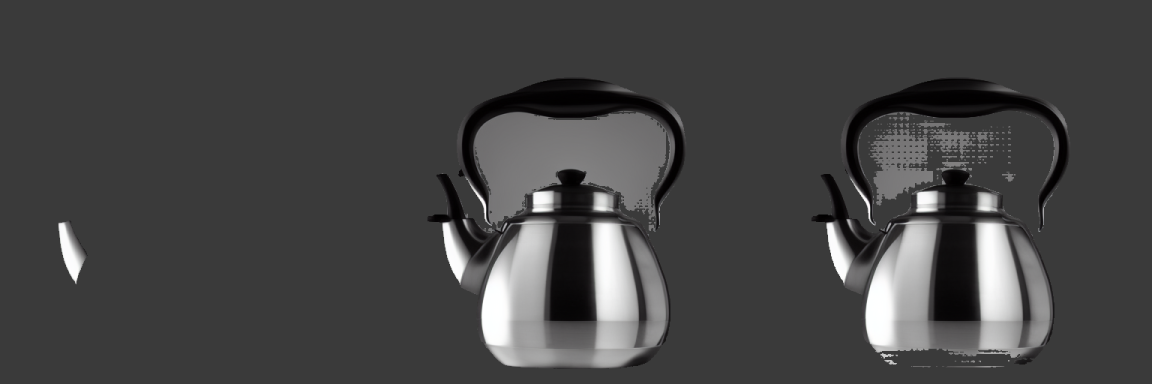
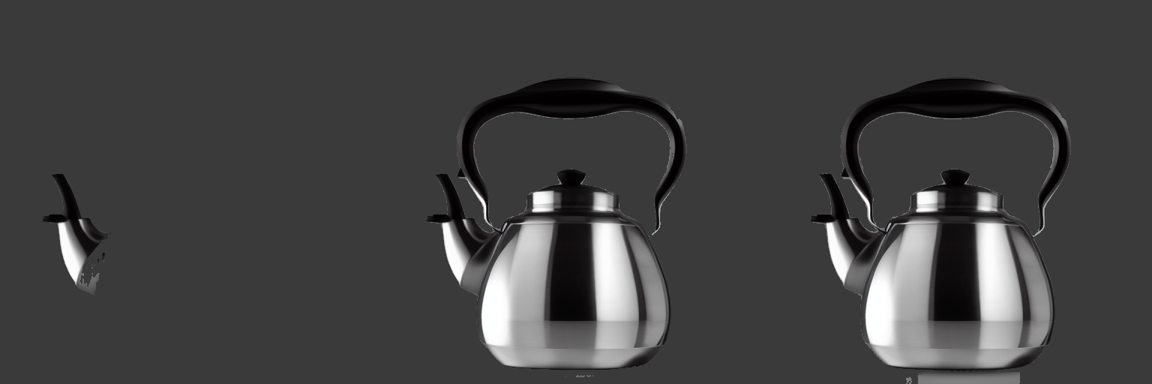
docs(pipeline): rerun the walkthrough with default models
Segment now defaults to sam2-coreml, so the cutout, masked cloud, mesh and export figures were regenerated.

diff --git a/docs/pipeline.md b/docs/pipeline.md
@@ -12,7 +12,7 @@ splat diffuse "a single stainless steel kettle with a black handle, centered, pl
 
 ![The diffused kettle](images/01-diffuse.png)
 
-The default model is `sd15-coreml`, a 6-bit palettized SD 1.5 that renders 512 px in about 35 s here, model load included, and supports image-to-image (`sdxl-turbo-mlx` is the alternative, with a non-commercial license that `splat` prints on every run). A plain backdrop and a single centred subject matter: every later stage does better on an image like this, and the rest of this page keeps using this one file.
+The default model is `sd15-coreml`, a 6-bit palettized SD 1.5 that renders 512 px in about 30 s here, model load included, and supports image-to-image (`sdxl-turbo-mlx` is the alternative, with a non-commercial license that `splat` prints on every run). A plain backdrop and a single centred subject matter: every later stage does better on an image like this, and the rest of this page keeps using this one file.
 
 ## 2. Caption and embed
 
@@ -26,13 +26,13 @@ The caption is `A shiny silver tea kettle with a black handle and lid.` (`fastvl
 ## 3. Segment
 
 ```sh
-splat segment kettle.png --model sam-mlx --max-stickers 8 -o stickers/
-splat segment kettle.png --model sam2-coreml --max-stickers 8 -o stickers/
+splat segment kettle.png --max-stickers 8 -o stickers/
+splat segment kettle.png --model sam-mlx --max-stickers 8 -o stickers-mlx/
 ```
 
 ![Automatic stickers from sam-mlx (top) and sam2-coreml (bottom)](images/02-segment-auto.png)
 
-Automatic segmentation fans out into one RGBA `sticker` per mask, largest first. `sam2-coreml` (bottom) starts with the frame sized mask, shown as the backdrop with the kettle cut out, then finds the kettle, the handle, the body, the spout and the lid. `sam-mlx` (top) finds the handle and the backdrop inside it, then slices of the body's highlights and shadows. `--drop-background` removes the masks that cover most of the frame or span part of its edge.
+Automatic segmentation fans out into one RGBA `sticker` per mask, largest first. `sam2-coreml` is the default: it is about twice as fast as `sam-mlx` and a fifth of the size. In the picture it (bottom) starts with the frame sized mask, shown as the backdrop with the kettle cut out, then finds the kettle, the handle, the body, the spout and the lid. `sam-mlx` (top) finds the handle and the backdrop inside it, then slices of the body's highlights and shadows. `--drop-background` removes the masks that cover most of the frame or span part of its edge.
 
 To say which object you mean, prompt the model instead:
 
@@ -44,7 +44,7 @@ splat segment kettle.png --foreground -o kettle-cutout.png
 
 ![A point on the spout, a box around the kettle, and --foreground](images/03-segment-prompts.png)
 
-`--point x,y` (and `--not-point x,y` for background, both repeatable) and `--box x0,y0,x1,y1` take pixel coordinates in the source image and return one sticker. `--foreground` needs no prompt: it finds the box around the masks that are not background and box-prompts the model with it, which gives one cutout of the kettle, though the cloudy backdrop inside the handle is only partly removed. For the box prompt, `sam-mlx` returns `(58, 102, 345, 390)` and `sam2-coreml` `(57, 103, 347, 400)` as `x, y, width, height`, within ten pixels of each other. `sam2-coreml` takes a box or up to two points, because its converted prompt encoder takes exactly two.
+`--point x,y` (and `--not-point x,y` for background, both repeatable) and `--box x0,y0,x1,y1` take pixel coordinates in the source image and return one sticker. `--foreground` needs no prompt: it finds the box around the masks that are not background and box-prompts the model with it, which gives one cutout of the kettle (347 by 409 px). For the box prompt, `sam-mlx` returns `(58, 102, 345, 390)` and `sam2-coreml` `(57, 103, 347, 400)` as `x, y, width, height`, within ten pixels of each other. `sam2-coreml` takes a box or up to two points, because its converted prompt encoder takes exactly two; use `--model sam-mlx` for more points.
 
 A sticker is a tight crop. Its `bbox` in the manifest places it back in the source image, which is how a sticker works as a mask for the next stages.
 
@@ -79,7 +79,7 @@ splat upscale kettle.png -o kettle-x4.png
 splat gaussian kettle.png --score -o kettle.ply
 ```
 
-`sharp` reconstructs a Gaussian splat from the single image: 1,179,648 Gaussians, an 80 MB `.ply` in the OpenGL convention (+Y up), SH degree 0, in metres. It takes about 75 s here, model load included. `--score` renders source view 0 with Blender and records the comparison against the photo in the cloud's `quality`: PSNR 38.09 and SSIM 0.9719, plus floater statistics. `splat manifest get <id>` prints them.
+`sharp` reconstructs a Gaussian splat from the single image: 1,179,648 Gaussians, an 80 MB `.ply` in the OpenGL convention (+Y up), SH degree 0, in metres. It takes about 50 s here, model load included. `--score` renders source view 0 with Blender and records the comparison against the photo in the cloud's `quality`: PSNR 38.09 and SSIM 0.9719, plus floater statistics. `splat manifest get <id>` prints them.
 
 A single photo has a backdrop, and SHARP reconstructs that too, as a wall behind the subject. Hand `gaussian` the cutout from step 3 and it keeps only the Gaussians that project inside it:
 
@@ -87,7 +87,7 @@ A single photo has a backdrop, and SHARP reconstructs that too, as a wall behind
 splat gaussian kettle.png --mask kettle-cutout.png -o kettle-masked.ply
 ```
 
-That is 304,158 Gaussians, a 21 MB file. Gaussians that project inside the mask but sit more than half a subject size behind its nearest surface are dropped too, since they belong to the wall in line with the subject. The masked cloud is a cached child of the full one, so changing the mask does not repeat the reconstruction.
+That is 335,586 Gaussians, a 23 MB file. Gaussians that project inside the mask but sit more than half a subject size behind its nearest surface are dropped too, since they belong to the wall in line with the subject. The masked cloud is a cached child of the full one, so changing the mask does not repeat the reconstruction.
 
 ## 7. Render
 
@@ -111,7 +111,7 @@ splat mesh kettle-masked.ply -o kettle.glb
 
 ![The heightfield from depth-pro-2 (left) and the isosurface of the masked cloud (right)](images/07-mesh.png)
 
-`mesh` has two paths. A metric depth map becomes a textured heightfield, a relief of everything in the photo (262,144 vertices, 512,782 faces, 11.6 MB). A Gaussian cloud becomes an isosurface of its density field with per-vertex colours (65,847 vertices, 131,316 faces, 2.6 MB), which is the kettle alone because the backdrop was masked out. Both are `shape_3d` manifests with typed counts, written as `.glb`, `.obj`, `.ply` or `.gltf` by the extension.
+`mesh` has two paths. A metric depth map becomes a textured heightfield, a relief of everything in the photo (262,144 vertices, 512,782 faces, 11.6 MB). A Gaussian cloud becomes an isosurface of its density field with per-vertex colours (68,904 vertices, 137,612 faces, 2.8 MB), which is the kettle alone because the backdrop was masked out. Both are `shape_3d` manifests with typed counts, written as `.glb`, `.obj`, `.ply` or `.gltf` by the extension.
 
 ## 9. Export
 
@@ -120,18 +120,18 @@ splat export kettle-masked.ply -o kettle.spz
 splat export kettle-masked.ply -o kettle.web.splat --profile web-delivery
 ```
 
-`export` writes any manifest in the format of the extension, with a sidecar. For the masked cloud: `.ply` 20.7 MB, `.spz` 3.0 MB, `.web.splat` 9.7 MB (304,030 points after compression). `splat validate kettle-masked.ply --strict` checks a cloud's invariants and `splat info` prints its count, SH degree, bounds and cameras.
+`export` writes any manifest in the format of the extension, with a sidecar. For the masked cloud: `.ply` 22.8 MB, `.spz` 3.3 MB, `.web.splat` 10.7 MB (335,346 points after compression). `splat validate kettle-masked.ply --strict` checks a cloud's invariants and `splat info` prints its count, SH degree, bounds and cameras.
 
 ## Lineage
 
 Every output remembers its parents, so `splat manifest get <id>` on the mesh shows how it was made, down to the prompt, with each model's license:
 
 ```text
-32b758ab004bad29  shape_3d  mesh:isosurface
-└── f8a3df4c69a567ed  gaussian_cloud  mask
+44797c671f155897  shape_3d  mesh:isosurface
+└── 5217881b851af4c9  gaussian_cloud  mask
     ├── e5b2e55cd308fdc6  gaussian_cloud  gaussian:sharp  Apple-ML-Research
     │   └── fe498117241c9aec  image  diffuse:sd15-coreml  OpenRAIL-M
-    └── 5db18ceaa1189c71-000  sticker  segment:sam-mlx  Apache-2.0
+    └── 0c9722fff85ac5a1-000  sticker  segment:sam2-coreml  Apache-2.0
         └── fe498117241c9aec  image  diffuse:sd15-coreml  OpenRAIL-M
 ```
 
